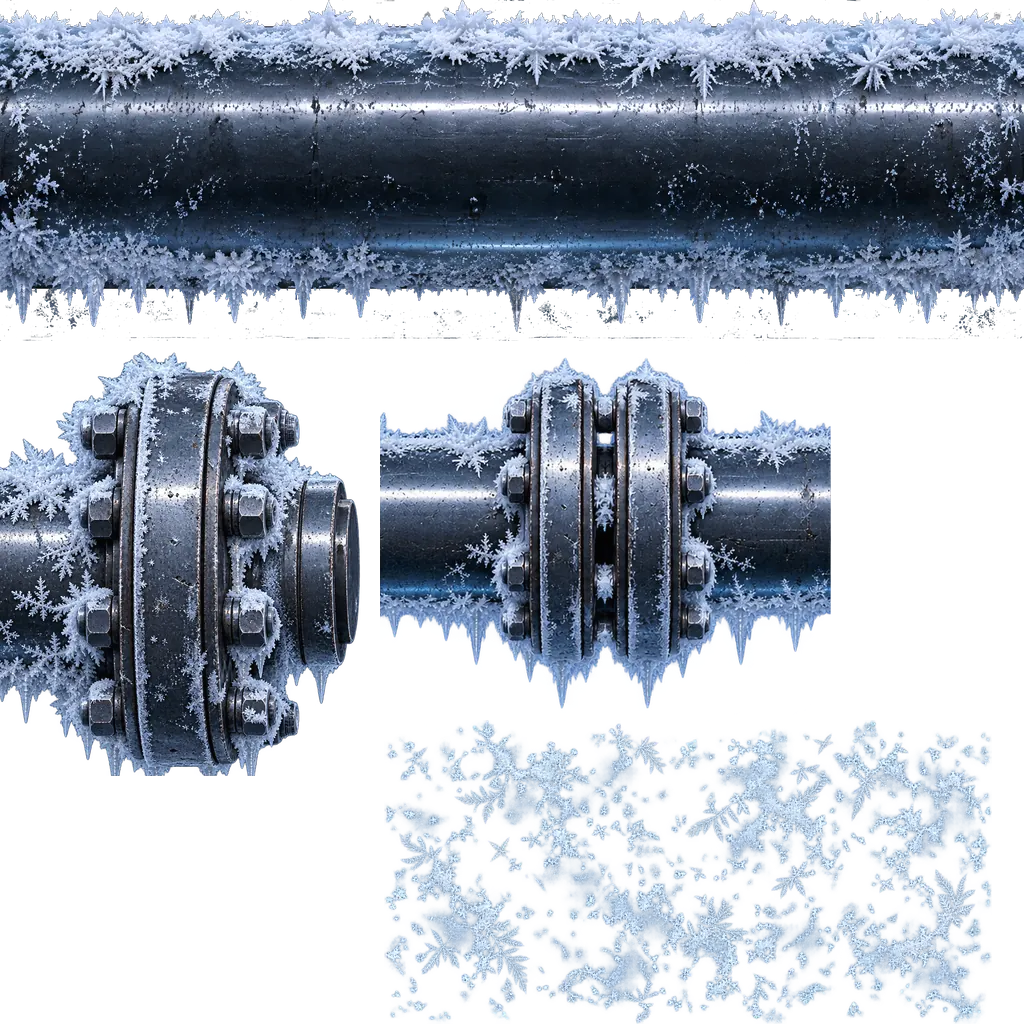
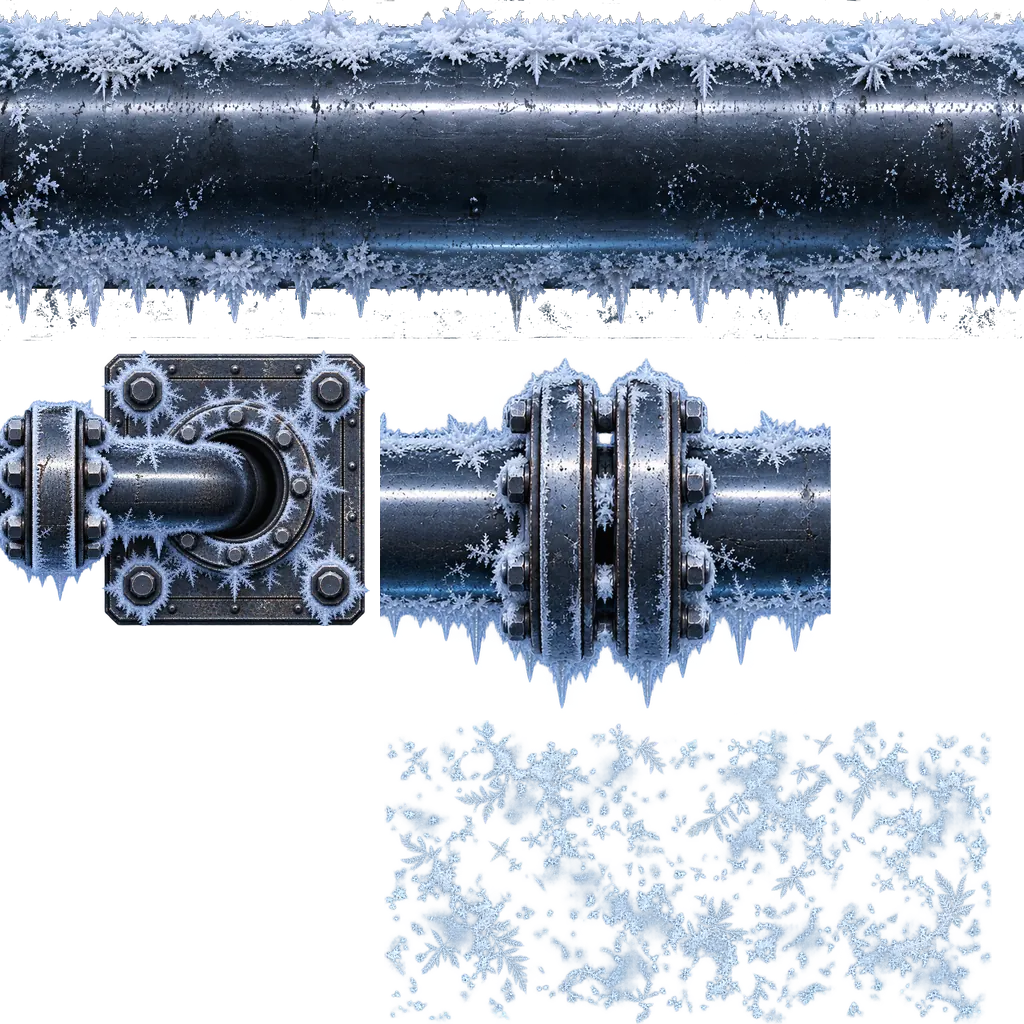
Le bout libre de la conduite plonge dans une traversée de sol
Symptôme : le bout libre d'une conduite finissait sur une bride
boulonnée — le tuyau « posé là, sans arrivée ni départ ».

Correctif : une nouvelle image générée remplace la bride de bout : le
tuyau passe une bride, puis plonge par un coude dans une plaque
boulonnée au plancher. Une première génération avait la plaque décalée
sous le tuyau (mesuré : axe du tuyau y 355, centre de la plaque 497) :
elle ne se posait pas sur un bloc dont le tuyau suit l'axe ; la seconde
est centrée (455 contre 461).
- l'atlas : conduite_atlas.py recadre la traversée de l'amorce de la
  bride (x 845) au bord de la plaque, en hauteur la plaque et 10 px
  (113..803) ; cadre du bout 370 × 276 ; 374 Ko ;
- CONDUITE : la plaque fait toute la largeur du bloc sur 0,979 de cette
  largeur depuis le bout ; la bride avant le coude, 0,70 de haut ; le
  tronçon s'arrête sous elle (finCorps 1,2) — elle cache le passage du
  tronçon (0,62) au tuyau de l'image (0,41), comme un réducteur ; plus
  d'embout. La physique (piecesConduite) et le shader (conduiteSdfLocal)
  ajoutent la bride de la traversée ; un bout dans un mur n'en a pas ;
- docs : le prompt de la traversée (assets-ia.md §27.2), avec la leçon
  du centrage.

Vérification : conduite.spec — la plaque pleine largeur au bout libre,
la bride de la traversée à 0,34 de demi-hauteur, au mur plus de plaque ;
prepare.py livre l'atlas sans défaut ; la chambre froide (tableau 8)
sous Chromium : chaque porte sort du bord de la salle et plonge dans
[…]

Changed region(s): [[0.0, 0.3438, 0.375, 0.7812]]

diff --git a/src/render/renderer.ts b/src/render/renderer.ts
@@ -165,6 +165,10 @@ const float CN_BOUT_H = ${f(C.boutDemiH)};
 const float CN_BRIDE_DE = ${f(C.brideDe)};
 const float CN_BRIDE_A = ${f(C.brideA)};
 const float CN_EMBOUT = ${f(C.embout)};
+const float CN_FIN_CORPS = ${f(C.finCorps)};
+const float CN_BB_DE = ${f(C.brideBoutDe)};
+const float CN_BB_A = ${f(C.brideBoutA)};
+const float CN_BB_DEMI = ${f(C.brideBoutDemi)};
 const float CN_JOINT_DEMI = ${f(C.jointDemi)};
 const float CN_JOINT_HAUT = ${f(C.jointHaut)};
 const float CN_JOINT_BAS = ${f(C.jointBas)};
@@ -210,6 +214,8 @@ float conduiteSdfLocal(float s, float t, float L, float T, float bouts) {
   if (lg && !boutEnMur(s, bouts)) {
     d = min(d, cnRect(abs(s), t, L * 0.5 - (CN_BRIDE_A + CN_BRIDE_DE) * 0.5 * T,
                       (CN_BRIDE_A - CN_BRIDE_DE) * 0.5 * T, 0.5 * T));
+    d = min(d, cnRect(abs(s), t, L * 0.5 - (CN_BB_A + CN_BB_DE) * 0.5 * T,
+                      (CN_BB_A - CN_BB_DE) * 0.5 * T, CN_BB_DEMI * T));
   }
   float sj = jointPres(s, L, T);
   if (sj < 1e8) {
@@ -755,21 +761,24 @@ vec4 conduiteNH3(vec2 loc, vec2 bsize, float px, float code) {
   float hb = CN_BANDE * T;
   // un bout dans un mur : le tronçon file jusqu'au bord du bloc
   bool mur = boutEnMur(s, bouts);
-  float fin = (lg && !mur) ? L * 0.5 - CN_EMBOUT * T : L * 0.5;
+  // un bout libre : le tronçon s'arrête sous la bride de la traversée
+  float fin = (lg && !mur) ? L * 0.5 - CN_FIN_CORPS * T : L * 0.5;
   if (abs(t) < hb && abs(s) < fin) {
     float m = s / (CN_MOTIF * T);
     float tri = abs(fract(m * 0.5) * 2.0 - 1.0);
     acc = atlasCadre(CN_CORPS, vec2(tri, (hb - t) / (2.0 * hb)), px, CN_CORPS.w / (2.0 * hb));
   }
-  // LES BOUTS : la bride et son embout ; à gauche, l'image en miroir. Le
-  // côté tuyau de l'image se fond dans le tronçon.
+  // LES BOUTS LIBRES : la TRAVERSÉE DE SOL — bride, coude qui plonge dans
+  // une plaque boulonnée au plancher ; à gauche, l'image en miroir. Le
+  // tronçon s'arrête sous la bride (finCorps) : elle cache le changement
+  // de diamètre, comme un réducteur.
   if (lg && !mur) {
     float sp = abs(s);
     float s0 = L * 0.5 - CN_BOUT * T;
     if (sp > s0) {
       vec2 f = vec2((sp - s0) / (CN_BOUT * T), (CN_BOUT_H * T - t) / (2.0 * CN_BOUT_H * T));
       vec4 c = atlasCadre(CN_CADRE_BOUT, f, px, CN_CADRE_BOUT.w / (2.0 * CN_BOUT_H * T));
-      acc = cnSur(acc, c * smoothstep(0.0, 0.16, f.x));
+      acc = cnSur(acc, c * smoothstep(0.0, 0.02, f.x));
     }
   }
   // LE JOINT à brides : sur un plot, seul au milieu ; ailleurs, tous les pas

diff --git a/src/game/formes.ts b/src/game/formes.ts
@@ -204,14 +204,22 @@ export const CONDUITE = {
   bandeCorps: 0.309,
   /** longueur d'un motif de tronçon, répété en miroir */
   motif: 1.856,
-  /** longueur de la pièce de bout (image), et sa demi-hauteur */
-  bout: 0.888,
-  boutDemiH: 0.512,
-  /** la bride de bout, comptée depuis le bout du bloc */
-  brideDe: 0.167,
-  brideA: 0.744,
-  /** l'embout s'arrête juste avant le bout */
-  embout: 0.023,
+  /** la pièce de bout — la TRAVERSÉE DE SOL : une bride, puis le coude
+   *  qui plonge dans une plaque boulonnée au plancher. Sa longueur (image)
+   *  et sa demi-hauteur ; le tronçon s'arrête sous la bride (finCorps),
+   *  qui cache le changement de diamètre, comme un réducteur */
+  bout: 1.366,
+  boutDemiH: 0.5096,
+  finCorps: 1.2,
+  /** la plaque de sol, comptée depuis le bout du bloc : toute sa largeur */
+  brideDe: 0,
+  brideA: 0.979,
+  /** la bride avant le coude, comptée depuis le bout, et sa demi-hauteur */
+  brideBoutDe: 1.027,
+  brideBoutA: 1.359,
+  brideBoutDemi: 0.34,
+  /** le tuyau file jusqu'au bout du bloc (sous la plaque) */
+  embout: 0,
   /** le joint à brides : demi-longueur de l'image, haut et bas de l'image
    *  autour de l'axe, demi-longueur de ses brides */
   jointDemi: 0.698,
@@ -228,7 +236,7 @@ export const CONDUITE = {
 export const CONDUITE_ATLAS = {
   taille: 1024,
   corps: [0, 0, 1024, 341],
-  bout: [0, 350, 370, 426],
+  bout: [0, 350, 370, 276],
   joint: [380, 350, 451, 365],
   givre: [384, 720, 608, 304],
 } as const
@@ -284,8 +292,14 @@ export function piecesConduite(L: number, T: number, bouts = 0): [number, number
     [-L / 2 + (murNeg ? 0 : retrait), L / 2 - (murPos ? 0 : retrait), C.tuyau * T],
   ]
   if (longue) {
-    if (!murPos) out.push([L / 2 - C.brideA * T, L / 2 - C.brideDe * T, T / 2])
-    if (!murNeg) out.push([-L / 2 + C.brideDe * T, -L / 2 + C.brideA * T, T / 2])
+    if (!murPos) {
+      out.push([L / 2 - C.brideA * T, L / 2 - C.brideDe * T, T / 2])
+      out.push([L / 2 - C.brideBoutA * T, L / 2 - C.brideBoutDe * T, C.brideBoutDemi * T])
+    }
+    if (!murNeg) {
+      out.push([-L / 2 + C.brideDe * T, -L / 2 + C.brideA * T, T / 2])
+      out.push([-L / 2 + C.brideBoutDe * T, -L / 2 + C.brideBoutA * T, C.brideBoutDemi * T])
+    }
   }
   for (const j of jointsConduite(L, T)) {
     out.push([Math.max(-L / 2, j - C.brideJoint * T), Math.min(L / 2, j + C.brideJoint * T), T / 2])

diff --git a/src/game/conduite.spec.ts b/src/game/conduite.spec.ts
@@ -78,7 +78,14 @@ describe('conduite — forme physique', () => {
     expect(contact(b, s, 30 + CONDUITE.tuyau * 60 + 4).dist).toBeCloseTo(4, 9)
   })
 
-  it('la bride de bout, elle, fait toute la largeur du bloc', () => {
+  it('la traversée de sol (plaque, puis bride) au bout libre', () => {
+    // la bride avant le coude : plus large que le tuyau, moins que le bloc
+    const sb = 670 - ((CONDUITE.brideBoutDe + CONDUITE.brideBoutA) / 2) * 60
+    expect(contact(b, sb, 30 + CONDUITE.brideBoutDemi * 60 - 1).dist).toBeLessThan(0)
+    expect(contact(b, sb, 30 + CONDUITE.brideBoutDemi * 60 + 3).dist).toBeCloseTo(3, 9)
+  })
+
+  it('la plaque de sol, elle, fait toute la largeur du bloc', () => {
     const s = 670 - ((CONDUITE.brideDe + CONDUITE.brideA) / 2) * 60
     expect(contact(b, s, 58).dist).toBeLessThan(0)
     expect(contact(b, s, 63).dist).toBeCloseTo(3, 9)
@@ -141,17 +148,18 @@ describe('conduite — les bouts dans le mur', () => {
     expect(boutsEnMur(b, [b, coin], null)).toBe(0)
   })
 
-  it('au mur, ni bride ni retrait : le tuyau touche le bord du bloc, le sol l’entoure', () => {
+  it('au mur, pas de traversée : le tuyau touche le bord du bloc, le sol l’entoure', () => {
     const phys = formePhysique(porte, [porte], salle)
     expect((phys as FormeBox).bouts).toBe(BOUT_MUR_NEG)
-    // au ras du bord bas, sur l'axe : sans la salle, le bout garde son
-    // retrait (l'embout de la bride) ; avec elle, le tuyau touche le bord
-    expect(contact(porte, -470, -749).dist).toBeGreaterThan(0)
-    formeContact(-470, -749, phys, out)
-    expect(out.dist).toBeLessThan(0)
-    // au ras du bord bas, sur le flanc du BLOC : dehors — plus de bride là
+    // au ras du bord bas, sur le flanc du BLOC : sans la salle, c'est la
+    // plaque de sol de la traversée (toute la largeur) ; avec elle, le
+    // tuyau plonge dans le bord, plus de plaque — du sol
+    expect(contact(porte, -443, -740).dist).toBeLessThan(0)
     formeContact(-443, -740, phys, out)
     expect(out.dist).toBeGreaterThan(0)
+    // et le tuyau, lui, touche le bord du bloc
+    formeContact(-470, -749, phys, out)
+    expect(out.dist).toBeLessThan(0)
     // l'autre bout, libre, garde sa bride de toute la largeur
     formeContact(-443, -150 - ((CONDUITE.brideDe + CONDUITE.brideA) / 2) * 60, phys, out)
     expect(out.dist).toBeLessThan(0)

diff --git a/tools/images/conduite_atlas.py b/tools/images/conduite_atlas.py
@@ -10,7 +10,8 @@ réunies, l'ancienne texture de la plaque froide (froid.webp, unité 9).
 Les sources (docs/assets-ia.md, « La conduite d'ammoniac ») :
 
   masters/images/sources/conduite-troncon.png   le corps, sur fond sombre
-  masters/images/sources/conduite-bout.png      la bride de bout, détourée
+  masters/images/sources/conduite-traversee.png le bout : bride, coude qui
+                                                plonge dans une plaque de sol
   masters/images/sources/conduite-raccords.png  la planche de raccords
   masters/images/sources/conduite-givre.png     le givre du sol, détouré
 
@@ -43,7 +44,7 @@ TAILLE = 1024
 # (x, y, largeur, hauteur) dans l'atlas, en pixels depuis le HAUT-gauche.
 # Le shader lit les mêmes cadres (CONDUITE_ATLAS dans game/formes.ts).
 CADRE_CORPS = (0, 0, 1024, 341)
-CADRE_BOUT = (0, 350, 370, 426)
+CADRE_BOUT = (0, 350, 370, 276)
 CADRE_JOINT = (380, 350, 451, 365)
 CADRE_GIVRE = (384, 720, 608, 304)
 
@@ -78,9 +79,11 @@ def colle(atlas: Image.Image, piece: Image.Image, cadre: tuple[int, int, int, in
 def main() -> None:
     atlas = Image.new('RGBA', (TAILLE, TAILLE), (0, 0, 0, 0))
     colle(atlas, corps(), CADRE_CORPS)
-    # la bride de bout : de l'amorce du givre (x 880) au bout de l'embout
-    # (1619), de 10 px au-dessus à 10 px au-dessous de la bride (50..882)
-    colle(atlas, lis('conduite-bout.png').crop((880, 40, 1619, 892)), CADRE_BOUT)
+    # LA TRAVERSÉE DE SOL (le bout libre) : de l'amorce de la bride (x 845)
+    # au bord de la plaque (1770) ; en hauteur, la plaque (123..800,
+    # mesurée) et 10 px de marge, centrée sur l'axe du tuyau (455) et de
+    # la plaque (461) — y 113..803
+    colle(atlas, lis('conduite-traversee.png').crop((845, 113, 1770, 803)), CADRE_BOUT)
     # le joint : la première pièce de la planche, centrée sur ses brides
     # (x 380), bride de 79 à 483
     colle(atlas, lis('conduite-raccords.png').crop((98, 56, 662, 513)), CADRE_JOINT)

diff --git a/docs/assets-ia.md b/docs/assets-ia.md
@@ -1450,7 +1450,7 @@ de composition n'a plus d'unité de texture libre) : il remplace
 génération (`--sref` sur Midjourney, image jointe sur ChatGPT / DALL·E).
 
 **Les sources** vont dans `masters/images/sources/` (non versionné) :
-`conduite-troncon.png`, `conduite-bout.png`, `conduite-raccords.png`,
+`conduite-troncon.png`, `conduite-traversee.png`, `conduite-raccords.png`,
 `conduite-givre.png`. Puis :
 
 ```bash
@@ -1474,12 +1474,21 @@ Retro-futuristic 1970s orbital laboratory, flat orthographic 2D game asset. Mute
 ```
 *Midjourney : `--ar 4:1 --tile --style raw --sref <référence>`*
 
-### 27.2 La bride de bout (détourée) · 1024×1024
+### 27.2 La traversée de sol — le bout libre (détourée) · 2:1
+
+Le tuyau passe une bride, puis plonge par un coude dans une plaque boulonnée au
+plancher : il a une ARRIVÉE (un bout contre un mur, lui, plonge dans le mur, sans
+pièce — `conduite.ts`). **La plaque doit être centrée sur l'axe du tuyau** : une
+première génération, plaque décalée vers le bas, ne se posait pas sur un bloc
+dont le tuyau suit l'axe. Mesures de l'image livrée : plaque 677 px (= la largeur
+du bloc), bride ≈ 0,70 de cette largeur, tuyau 0,41 — la bride cache le passage
+au tronçon, plus gros, comme un réducteur.
 
 ```
-Retro-futuristic 1970s orbital laboratory, flat orthographic 2D game asset. Muted cold palette: near-black #030710, steel blue-grey #0a1420 to #2a3542, single cyan accent #63b7e6. Evenly lit from above, low brightness, no visible light source. Single sprite on a transparent background, top-down orthographic view, in the exact style of the attached reference: the END of a dark polished gunmetal steel pipe with a heavy bolted flange, the pipe coming from the left edge of the image, the flange ring about 25 % taller than the pipe, eight large hexagonal nuts and bolts around it, a short capped pipe stub sticking out past the flange on the right. White hoarfrost (#d6e8f5) and small icicles gather on the flange rim, the bolt heads and the lower edge; the rest is bare glossy steel with a cold specular highlight. Pipe centred vertically, flange fully inside the image, clean edges, isolated on transparent background. Avoid: perspective, 3/4 view, isometric, side view, depth of field, blur, film grain, lens flare, vignette, bright lighting, warm colors, text, logo, watermark, border, frame, drop shadow, background, floor, pipe fully covered in snow, white pipe.
+Retro-futuristic 1970s orbital laboratory, flat orthographic 2D game asset. Muted cold palette: near-black #030710, steel blue-grey #0a1420 to #2a3542, single cyan accent #63b7e6. Evenly lit from above, low brightness, no visible light source. Single sprite on a transparent background, STRICT TOP-DOWN orthographic view looking straight down at the floor, in the exact style of the attached reference: a dark polished gunmetal steel pipe lying on the floor, coming from the left edge of the image, with a bolted flange joint on the pipe just before the plate, and on the right it bends 90 degrees DOWNWARD and disappears into the floor through a square riveted steel floor plate. The plate and its hole are CENTRED ON THE PIPE AXIS: the pipe goes straight ahead into the hole without curving sideways, the hole's centre is exactly on the pipe's centre line, and the plate extends equally above and below the pipe. Seen from directly above, the bend is a rounded pipe end whose top surface darkens as it curves down, sinking into a round black hole in the plate; a thin bolted collar ring lies FLAT on the plate around the hole, seen as a perfect circle, not an ellipse. The square plate is only about 1.8 times the pipe diameter, bolted at its four corners, lying flat. White hoarfrost (#d6e8f5) crusts the collar and the rim of the hole, a little frost on the plate edges, small icicles along the pipe's lower edge; the rest is bare glossy steel with a cold specular highlight. Pipe centred vertically in the image, the whole plate inside the image, clean edges, isolated on transparent background. Avoid: perspective, 3/4 view, isometric, side view, wall, elliptical ring, pipe entering horizontally, pipe curving sideways, off-centre plate, depth of field, blur, film grain, lens flare, vignette, bright lighting, warm colors, text, logo, watermark, border, frame, drop shadow, pipe fully covered in snow, white pipe.
 ```
-*Midjourney : `--ar 1:1 --style raw --sref <référence>`, puis détourage.*
+*Midjourney : `--ar 2:1 --style raw --sref <référence>`, puis détourage. Source :
+`masters/images/sources/conduite-traversee.png`.*
 
 ### 27.3 Les raccords (planche détourée : le joint sert aux joints et aux plots) · 2048×1024
 
